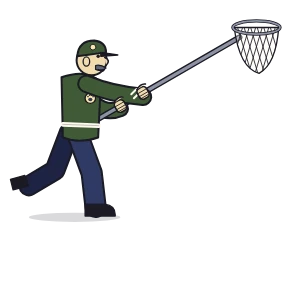
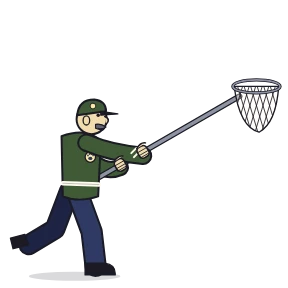
Ready-to-play games: the docs, the art audit, and the residents on the floor
TESTING.md gets a two-client section for the quick start and the
tokens that follow (all five houses); the automation notes record
decisions 92-101 (the scenes, the scale and grid, the layout flags,
the pictures, the quick start, who is ticked, where tokens stand,
what shows, when tokens move, which scene); the README says what the
system now holds. The art audit covers the new pictures: the robot
vacuum sat above the floor line, so every resident now stands on the
floor in front of the wall, and the warden's boot is at the foot of
his tile.

Changed region(s): [[0.0312, 0.0625, 1.0, 1.0]]

diff --git a/docs/AUTOMATION.md b/docs/AUTOMATION.md
@@ -109,7 +109,7 @@ ApplicationV2 + HandlebarsApplicationMixin (pattern from Heisty). Opens from a s
 - **Human:** kind, Attention, traits (dozes, busy, kid, teen), routine (six results).
 - **Pet:** kind (dog, house cat, parrot, robot vacuum), rating, soft, roam, routine.
 - **House** (journal flags): the catalog entry, so a custom house is editable in a form.
-- Compendia: the five houses (journals), the ready-made gang (actors), residents (actors), the rules (journals mirroring the book).
+- Compendia: the five houses (journals), the ready-made gang (actors), residents (actors), the rules (journals mirroring the book); since 0.9.0 also **Ready to Play** (a scene per house: decisions 92–101).
 
 ## 8. Settings (all world, GM)
 
@@ -125,6 +125,7 @@ ApplicationV2 + HandlebarsApplicationMixin (pattern from Heisty). Opens from a s
 | `autoOutcome` | true | No end-of-robbery card |
 | `autoGetaway` | true | Getaway rolls move nobody; the Storyteller moves the gang, the loot and the warden on the tracker |
 | `autoCred` | true | Tags and the stash are noted, but Cred and the zoomies are kept by hand |
+| `tokensFollow` | true | On a ready-to-play scene the tokens stay wherever the Storyteller puts them (decision 100) |
 
 ## 9. Tests and the smoke test
 
@@ -155,7 +156,8 @@ ApplicationV2 + HandlebarsApplicationMixin (pattern from Heisty). Opens from a s
 | Robbery runtime | `module/robbery/store.mjs` (the serialised world setting), `gm-ops.mjs` (`User#query` + socket fallback), `automation.mjs` (the GM applies roll cards; reconcile on ready), `robbery.mjs` (Storyteller commands, player ops, card buttons), `announce.mjs` |
 | Tracker | `module/apps/tracker-view.mjs` (Foundry-free view), `robbery-tracker.mjs`, `templates/apps/tracker-*.hbs` |
 | Packs | generated by `tools/pack-content.mjs` from the catalog, the book's house pages and Chapter 3; `npm run build:packs` |
-| Tests | `test/{rules,mood,round,actions,replay,parity,contracts,packs,v07,v08,v09}.test.mjs` (`v08`, `v09`: one test per ruling of that version), `test/robbery.smoke.test.mjs` (fake Foundry, GM + two players), `test/smoke.test.mjs` |
+| Ready-to-play games | `module/logic/ready-to-play.mjs` (pure: Chapter 3's default gang, where every token stands), `module/robbery/quick-start.mjs` (Play a ready-made game), `module/robbery/tokens.mjs` (tokens follow the robbery), `templates/dialogs/quick-start.hbs`; the scenes' plans and geometry from `book/tools/art-gen/scenes/maps.mjs` (`canvasMap`); the pictures in `assets/` from `tools/asset-art.mjs` and `tools/build-assets.mjs` (`npm run build:assets`) |
+| Tests | `test/{rules,mood,round,actions,replay,parity,contracts,packs,v07,v08,v09}.test.mjs` (`v08`, `v09`: one test per ruling of that version), `test/robbery.smoke.test.mjs` (fake Foundry, GM + two players), `test/smoke.test.mjs`; `test/ready-to-play.test.mjs` and `test/quickstart.smoke.test.mjs` (the quick start at all five houses) |
 
 ### Decisions the design left open
 1. **When a roll counts.** A roll card is *pending* until it is final: on a Push (a Push is once per roll), on **Accept**, when the same cat makes its next roll or move, at Begin/End round, or on the GM's **Apply now**. Only then does the active GM apply it — the option's effect, noise, the helpers' Actions and the Mood together. Applying once, at the end, means no effect ever has to be undone (a Push can turn a Scrape into a Flop). The pending card shows the stakes: "If it stands: Broom +1 (3/4)".
@@ -324,3 +326,18 @@ The two real-dice playtests (Number 12 and Chef Marchetti's, 2026-10-21) changed
 AE. **Rep for Cred: 5 or 8?** The brief and the core rules summary say the gang's Cred must add up to 8; the book's Chapter 9 ("a night with 5 or more Cred that wasn't Busted") and Chapter 14 ("5 or more Cred") still say 5. Built as 8.
 AF. **The warden's move after a dodge's Flop**: "2 if any cat's roll ended in a Flop" — built as the simulator: only obstacle rolls count (question V).
 AG. **The Charge exception** (decision 87) reads "no Action left" literally: any cat that used its Action before walking into the dog's room stays. The Scrapper that squares up to the pet it's already facing is chased back (decision 86), as the brief says.
+
+### Ready-to-play games (system 0.9.0)
+Richard asked for premade games players can jump right into, at all five houses. The Robbery Tracker's **Play a ready-made game** sets the whole table and starts the robbery; on the house's scene the tokens follow the robbery. No rule, number or name is new: everything comes from the book, the house data and the book's art. `test/ready-to-play.test.mjs` tests the pure part; `test/quickstart.smoke.test.mjs` plays the quick start at every house on the fake Foundry (the table set, a round, the tokens following, the getaway, playing again, own cats, the setting off); `TESTING.md` section 12 is the two-client script.
+
+92. **The scenes are the book's maps, laid out for a table.** Each house's scene background is a tabletop variant of its book map, drawn by the same function from the same data (`maps.mjs` `canvasMap` calls `houseMap` with a layout of its own; the book's maps come out byte for byte as before). The floors sit on whole grid squares, side by side; every side of a floor with an entrance keeps two squares clear outside it, where the cats wait (one square elsewhere); the long ENTRANCES list becomes a one-line key of the numbered markers; under the house, **THE GETAWAY**: the van, the garden, the far side of the first three obstacles and the hideout as five spaces, each obstacle's name between two (the rivals' note under theirs), and a row above where the warden stands. A one-line note says "the warden stands above the space he's on".
+93. **Scale and grid.** Two pixels per map unit: one map square ("about two cat lengths", the book's legend) is one 144 px grid square, and every token is half a square — one cat length, 72 px — humans and pets too, so one lattice of spots serves everyone. The grid is square, 144 px, 2 "cat lengths" a square, and drawn invisible (alpha 0): the plan draws its own squares in the rooms, and the outside has none. The scene has no padding (so scene pixels are the background's pixels; the runtime still adds `dimensions.sceneX/Y` if a Storyteller pads it), no token vision and no fog. The first view centres the whole plan in a 1600 × 900 window.
+94. **The layout in the scene's flags** (`flags["cat-burglars"]`: `house`, `readyToPlay`, `layout`), in scene pixels: every room's rectangle (and floor) and what is drawn in it (its name, the stairs, a prize star, a door's swing) as boxes to keep tokens off; every entrance's marker and the band outside its wall where cats wait (above the room for a roof light), clear of the marker and the floor names; the getaway's five spaces, the van, the warden's tile in each place, and the tile's picture. The scene's journal is the house's journal by its compendium id; the quick start relinks it to the world's copy.
+95. **Pictures.** The ready-made gang: the book's portrait as the actor's picture (512 px) and, with its paper corners left off, as a round token (256 px). The residents the book draws — Pudding, Noodle, Brutus, Pom-Pom, Captain and the robot vacuum (one picture for both houses' vacuums) — are drawn by their own drawing functions, standing or sitting on a floor in a lamplit cameo like the gang's portraits. The book never draws a human above the hips (a cat's-eye view), so the humans keep Foundry's figure icon. The warden's tile is the book's `warden()`; the tracker's dialog shows `tag-small`. All WebP from Chromium's own encoder (quality 0.9; under 1 MB in all), rebuilt byte for byte by `npm run build:assets`; `npm run validate` fails if a pack or template points at a picture that isn't there, and `test/packs.test.mjs` if a background isn't its scene's size.
+96. **Play a ready-made game** (`quick-start.mjs`, the active Storyteller only; offered when no robbery is running). Pick a house and the cats; in one go: the house's journal and scene come in from the compendiums (the scene linked to the journal), the chosen ready-made cats and all the house's residents come into the world, the robbery starts through `robbery.startRobbery` — exactly what **Start a robbery** calls, with one more line on the start card: "Storyteller: hand each player a cat — right-click a cat → Configure Ownership." — every token goes on the scene, and the scene is activated last, so the players arrive to a set table. Nothing is doubled: a scene is reused by its flags (`readyToPlay`, `house`), the journal by its house flag, a ready-made cat by its `gang` flag, a resident as `startRobbery` finds it (`system.house` and `system.key`), and the folders by their flags. The folders: **Nine Lives Gang** for scenes and journals; for actors **Nine Lives Gang → The ready-made gang** and **→ (the house's name)** for its residents. Tokens of cats from an earlier game on that scene who aren't playing now come off it (only cats' tokens; nothing else on the scene is touched). Ownership stays the Storyteller's job.
+97. **Who is ticked** (Chapter 3). A gang of one cat per player (the world's non-Storyteller users), three to five (a gang of one or two plays as three, Ch 12); with no players yet, four (the houses print their numbers for four). Five: everyone; four: leave out Pip; three: leave out Pip and one of Tilly, Biscuit and Mags, keep Velvet — the book leaves which to the table, so the dialog ticks Tilly, Biscuit and Velvet and the Storyteller can swap Mags in. Players' own cats (the world's cats that aren't ready-made) are listed unticked: "Tick them, and untick a ready-made cat for each."
+98. **Where a token stands** (`ready-to-play.mjs`). Each cat and resident belongs in an area: a room (free, Held — on the free spot nearest its holder —, Shut in the Den, riding the vacuum — nearest it); for a cat outside, the place by an entrance; on the getaway, its space (home: the hideout), a pinched cat in the van. An area's spots are an even lattice of half squares; spots clear of what is drawn there come first (outside: nearest the marker first). A token already in its right area stays exactly where it is (so a Storyteller's tidy arrangement inside a room survives); the others take the first free spot; no two tokens ever share a spot, and a crowded room stacks the extras a little off a spot, still inside its walls. A cat outside waits by the entrance its token is at; one that just left a room waits by that room's entrance (or the nearest: every house has at most one entrance a room); else by the entrance it came in by; at the start the cats share out the entrances they fit through in house order (a Chonky cat never waits at a Tight one) — just a picture: going in is still the players' choice.
+99. **What shows.** A hiding cat's token goes see-through (alpha 0.5), not hidden, so its player still sees it; a driven-off pet's token is hidden (the Storyteller still sees it) until it comes back. The warden is a Tile, not a token: he has no actor and the book gives him no numbers, so the system makes none. His tile is hidden above the van in the house and until the van pulls up, then stands above the space he's on, and stays where the getaway ended. Status icons are left alone: the tracker says who is Held, Distracted or Asleep.
+100. **When tokens move** (`tokens.mjs`, setting `tokensFollow`, default on). After every robbery change the active Storyteller's client draws it on the house's scene: one batch of token updates (and the warden's tile) per change — a roll applied, a move, each step of Begin and End round, a Storyteller's override. The robbery state is the truth: dragging a token changes nothing, and a dragged token is left alone until the next change, which puts it back only if it's outside its right area. Changes that come while one is being drawn are drawn once, from the newest state. Off: nothing moves the tokens (the quick start still puts them on the scene: that's setting up, not following).
+101. **Which scene.** The active scene if it is this house's ready-to-play scene, else the one being viewed, else the first such scene in the world; only tokens of actors in the robbery move (the first token of each). A scene without the layout flag (a Storyteller's own map) is never touched.
+

diff --git a/TESTING.md b/TESTING.md
@@ -1,6 +1,6 @@
 # Testing the Foundry system by hand (two clients)
 
-There is no live Foundry in the cloud, so the automated tests run on a fake Foundry (`tools/fake-foundry.mjs`). This script checks the same things in **real Foundry v13** with two browser windows: you as the **Storyteller (GM)** and one **player**. It takes about 30 minutes. Each step says what you should see; if you see something else, note the step number, what happened, and any red error in the browser console (F12).
+There is no live Foundry in the cloud, so the automated tests run on a fake Foundry (`tools/fake-foundry.mjs`). This script checks the same things in **real Foundry v13** with two browser windows: you as the **Storyteller (GM)** and one **player**. It takes about 30 minutes, and section 12 (the ready-to-play games) about 15 more. Each step says what you should see; if you see something else, note the step number, what happened, and any red error in the browser console (F12).
 
 ## 0. Set up (once)
 
@@ -140,6 +140,30 @@ In **Configure Settings**, try each and check the "Off" behaviour:
 | Run the getaway | off | The getaway's rolls move nobody and the warden stays put; move everyone with the tracker's **Put:** / **Loot:** / **Warden:** and **Count the loot** |
 | Score Cred | off | Tags and the catnip are noted but score nothing ("Cred is kept by hand"); the zoomies add no die or noise and don't stop a resist; use the tracker's **Cred +1 / −1** and **Zoomies** |
 | Players can open the tracker | off | Lena's tracker button warns that the Storyteller keeps it |
+| Tokens follow the robbery | off | On a ready-to-play scene (section 12) nothing moves the tokens: they stay wherever you put them; switch it back on and the next change puts everyone where the robbery says |
+
+## 12. Ready-to-play games (the quick start, and tokens that follow)
+
+Use a **fresh world** for this section (nothing imported yet), with Lena logged in as before. It takes about 15 minutes; the five houses are the same steps.
+
+1. GM: open the Robbery Tracker. *See:* "No robbery yet" with **Play a ready-made game** beside **Start a robbery**.
+2. GM: **Play a ready-made game**. *See:* a dialog with the gang's tag, the five houses, the ready-made gang with pictures (with one player, Tilly, Biscuit and Velvet are ticked: Chapter 3's gang of three), the line about Configure Ownership. Pick **The Chicken at Number 12**, tick **Marmalade Mags** as well → **Let's go!**
+3. *See, both windows:* the scene **The Chicken at Number 12** opens on its own: the floor plan on a cream page, the three entrance markers, a key "ENTRANCES 1 Front door …", and under the house **THE GETAWAY**: the van, the garden, three spaces, the hideout, the obstacles' names between them. Mr Pell's token stands in the hall and Pudding's in the kitchen; the four cats wait outside, spread over the front door, the cat flap and the kitchen window. The cats have their portraits as round tokens, half a grid square each; Mr Pell has the plain figure. No grid lines are drawn (the plan has its own squares). Lena sees no warden.
+4. GM: check the sidebar. *See:* **Actors → Nine Lives Gang → The ready-made gang** (the four cats) and **→ The Chicken at Number 12** (Mr Pell, Pudding); **Scenes → Nine Lives Gang**; **Journal → Nine Lives Gang → The Chicken at Number 12**. The scene's journal (right-click the scene → Configure → Journal) is that entry. The chat has the robbery's start card, ending "Storyteller: hand each player a cat — right-click a cat → Configure Ownership."
+5. GM: right-click Velvet → **Configure Ownership** → Lena: Owner. Lena: Velvet's token is now hers to select.
+6. GM: **Begin round**. Lena: from the tracker, Velvet **In through the Front door**, roll and **Accept**. *See:* when the roll is applied, Velvet's token hops from outside the front door into the hall; no other token moves.
+7. GM: Big Biscuit **In through the Cat flap in the back door**. *See:* his token hops into the utility room.
+8. GM: drag Mr Pell's token into the living room. *See:* it stays there, and the tracker still has him in the hall. Now press the tracker's Broom **+1**. *See:* his token goes back to the hall.
+9. GM: under Big Biscuit (in the utility room), **Roll: Hide**. *See:* when it works, his token goes see-through; when he does something else, solid again.
+10. GM: **End round** and run the house's turn. *See:* wherever the house's turn moves Mr Pell and Pudding (the card says), their tokens go there, all at once; anyone Shooed or Scooped goes outside by the right entrance or stays in the human's room beside them (Held). A driven-off Pudding fades for you (hidden) and vanishes for Lena until he comes back.
+11. GM: **End the robbery**. *See:* the getaway: the cats outside line up in **THE GARDEN**; any cat still inside sits **IN THE VAN**. Roll a cat **Over** the first obstacle: its token moves to the next space. **End the getaway round** until the van pulls up: the warden appears above the space he lands on and moves along with the gang. A cat home goes in **THE HIDEOUT**.
+12. GM: **Clear**, then **Play a ready-made game** again at Number 12 with only Tilly, Biscuit and Velvet. *See:* no second scene, no second copies of anyone; Mags's token is gone from the scene; everyone is back at the start.
+13. The other houses, each with **Play a ready-made game** (then **Begin round**, one cat in through a way with no roll, **End round**). *See* for each: its scene opens, the residents start where its journal says, the cats wait by its entrances, and the tokens follow:
+   - **The Okafors' Big Box**: two floors side by side; Mrs Okafor in the hall, Tayo in the living room, Noodle asleep in the kitchen; a cat can wait by the garage side door (right of the garage) and the bathroom window (left of the upstairs).
+   - **Grandpa Wendell's Catnip Mouse**: three floors (the cellar on the right); Grandpa in the hall, June in the kitchen, Pom-Pom and the robot vacuum in the living room. Big Biscuit never waits at the Tight cellar window.
+   - **The Birthday Cake**: Dad in the kitchen, Aunt Rosalind and Captain in the dining room, Mia and Leo in the living room; the cats outside the front door, the patio door and the utility window.
+   - **Chef Marchetti's Salmon**: Chef in the kitchen, Sam in the hall, Brutus in the utility room, the vacuum in the living room; a cat can wait on the roof above the skylight (the dashed square on the landing).
+14. Players' own cats: GM, make a cat (or have Lena make one), then **Play a ready-made game** at any house: it is listed under **Bringing their own cats?** Tick it and untick a ready-made cat. *See:* it gets a token outside with the others and is in the robbery.
 
 ## What to report
 

diff --git a/README.md b/README.md
@@ -10,7 +10,7 @@ A tabletop roleplaying game by **Richard Moore**. The players are a gang of stre
 | `docs/` | Design document (pitch, decisions), core rules summary, Foundry automation design, lessons from *Heisty Spideys* |
 | `book/` | The rulebook: HTML chapters built into a typeset PDF (digital and print-on-demand) |
 | `sim/` | Rules simulator for balance testing |
-| `module/`, `templates/`, `styles/`, `lang/`, `packs/` | The Foundry VTT game system |
+| `module/`, `templates/`, `styles/`, `lang/`, `packs/`, `assets/` | The Foundry VTT game system (`assets/`: its pictures, rendered from the book's art) |
 | `tools/`, `test/` | Build, validation and test tooling (including a fake Foundry for integration tests) |
 
 ## The Foundry system
@@ -19,7 +19,8 @@ Automation-first (`docs/AUTOMATION.md`): nobody tracks rules by hand.
 - **The roll dialog** builds the pool from the robbery: Knack, help, Difficulty, the pet in the way, the watching human's Attention, Seen and kids — all changeable.
 - **Roll cards** with **Push** (1 Cattitude or +1 Mood), **Accept**, and the Storyteller's **Seen / Not seen**. The Storyteller's client applies each final roll to the robbery: the step, the door, the entrance, the dog, the distraction, the noise, and the two-meter **Mood** (a ledger: one roll, one change), with **Shoo!** and **Scooped!**.
 - **The Robbery Tracker**: the house room by room, the Prize Clock, Broom and Cuddle with Patience, each cat's Moves and Actions as buttons, **Begin round** (the Prize Clock, a one-click temptation prompt) and **End round** (the house's turn rolled in the open: dogs chase cats that didn't deal with them, pets, noise, routines and Searching, holders, Finding it), the Storyteller's pick when a meter fills with no roll, the getaway (the route, the loot in pieces, the warden and the pound), Cred (tags, the catnip and the zoomies, the rivals, the Cat's Whiskers), the outcome counted in loot, and the Storyteller's overrides.
-- **Compendia**: the five houses (journals), the ready-made gang, and every house's residents.
+- **Ready-to-play games** for all five houses: the tracker's **Play a ready-made game** brings in the house's map as a scene, the ready-made gang and the residents (with pictures from the book), puts everyone's token on the map and starts the robbery; the tokens then follow the robbery round the house and on the getaway, the warden too.
+- **Compendia**: Ready to Play (a scene per house), the five houses (journals), the ready-made gang, and every house's residents.
 - Every automation can be switched off in the settings. Players write only their own cats and chat messages; everything else goes to the Storyteller's client (`User#query`, with a socket fallback).
 - `TESTING.md` is the two-client script for checking it in real Foundry v13.
 
@@ -30,10 +31,11 @@ Code layout: pure rules in `module/logic/` (no Foundry globals; `node --test`), 
 npm install
 npm run check               # validate the Foundry system + run every test
 npm run build:packs         # regenerate the compendium sources from the houses, the book and Chapter 3, then compile them
+npm run build:assets        # render the system's pictures (scenes, gang, residents, the warden) from the book's art to assets/
 npm run build:book          # rulebook PDF → book/dist/
 node book/build.mjs --print # print-on-demand interior + covers
 node sim/run.mjs --runs 2000  # the simulator
 ```
-After changing a house (`sim/houses.mjs`, then its copy in `module/logic/house-catalog.mjs`) or a house's text in the book, run `npm run build:packs`; `npm run check` fails until the packs match.
+After changing a house (`sim/houses.mjs`, then its copy in `module/logic/house-catalog.mjs`) or a house's text in the book, run `npm run build:packs`; `npm run check` fails until the packs match. If the house's map changes, run `npm run build:assets` first (the scene's plan is drawn from the same data, and the check fails if a scene's picture is the wrong size).
 
 © 2026 Richard Moore. All rights reserved.

diff --git a/book/art/AUDIT.md b/book/art/AUDIT.md
@@ -540,3 +540,29 @@ Re-audit any piece whose generator changes.
 ## Not in the book yet
 - `ch-getaway`, `spot-rivals`, `tag-small`, `ref-residents`, `ref-warden` are built and audited above;
   the author places them in the text.
+
+## The Foundry system's pictures (assets/, audited 2026-10-27)
+Made from the book's art by `tools/asset-art.mjs` and `maps.mjs` `canvasMap`, rendered by `tools/build-assets.mjs`
+and looked at at full size (and the scenes with the token positions drawn over them).
+- **The tabletop plans** (`assets/scenes/<house>.webp`, 2 px a unit): the book map's rooms, walls,
+  doorways, closed doors with their swings, stairs, numbered entrance markers, prize stars and THE DEN, drawn
+  by the same code as the book's map, on whole grid squares. Checked against each book map: the same rooms
+  the same size in the same places on each floor, every entrance on the same wall, the same stars. The
+  ENTRANCES list is a one-line key of the marker numbers and names (whole words, the book's faces). The
+  getaway row: five spaces, four arrows, each obstacle's name whole under its arrow, the rivals' note in
+  italics under theirs, the van (the book's `van()`) with both wheels on the road and ANIMAL CONTROL whole.
+- **The gang** (`assets/gang/`): the book's portraits as they are; the tokens are the same picture with the
+  paper corners transparent, nothing cut by the edge.
+- **The residents** (`assets/residents/`, a cameo each: the wall, the lamp's glow, the floorboards):
+  | Picture | Object table | Character row |
+  |---|---|---|
+  | pudding | four paws on the floorboards in front of the wall, contact shadow | one eye (profile), two long ears, four legs, one feathered tail, cream with brown patches ✓ ref-residents |
+  | noodle | four paws on the floor, shadow | one eye, floppy ears, four short legs, one thin tail, ginger ✓ |
+  | brutus | four paws on the floor, shadow | one eye, folded black ears, black mask, four legs, a stub tail, fawn ✓ |
+  | pom-pom | haunches, paws and tail on the floor, shadow; the whole cat inside the ring | two eyes under level lids, two small ears in the fluff, whiskers both sides, two front legs, one tail round the paws, silver longhair with a cream ruff, no collar ✓ |
+  | captain | the stand's three feet on the floor, shadow; the cage's ring on the arm's hook; every bar from the base ring to the dome | the grey parrot on the perch, two feet on it, the brick-red tail ✓ spot-parrot |
+  | robot-vacuum | the disc flat on the floor, its shadow under it. **Fixed**: it first sat above the floor line, floating | — |
+- **The warden's tile** (`assets/getaway/warden.webp`): the book's `warden()` as on ref-warden — one boot
+  on the ground with its shadow at the foot of the square, two hands closed round the pole, the net on its
+  hoop, nothing cut by the edge.
+- **The tag** (`assets/ui/tag-small.webp`): `tag-small` in dusk blue.
